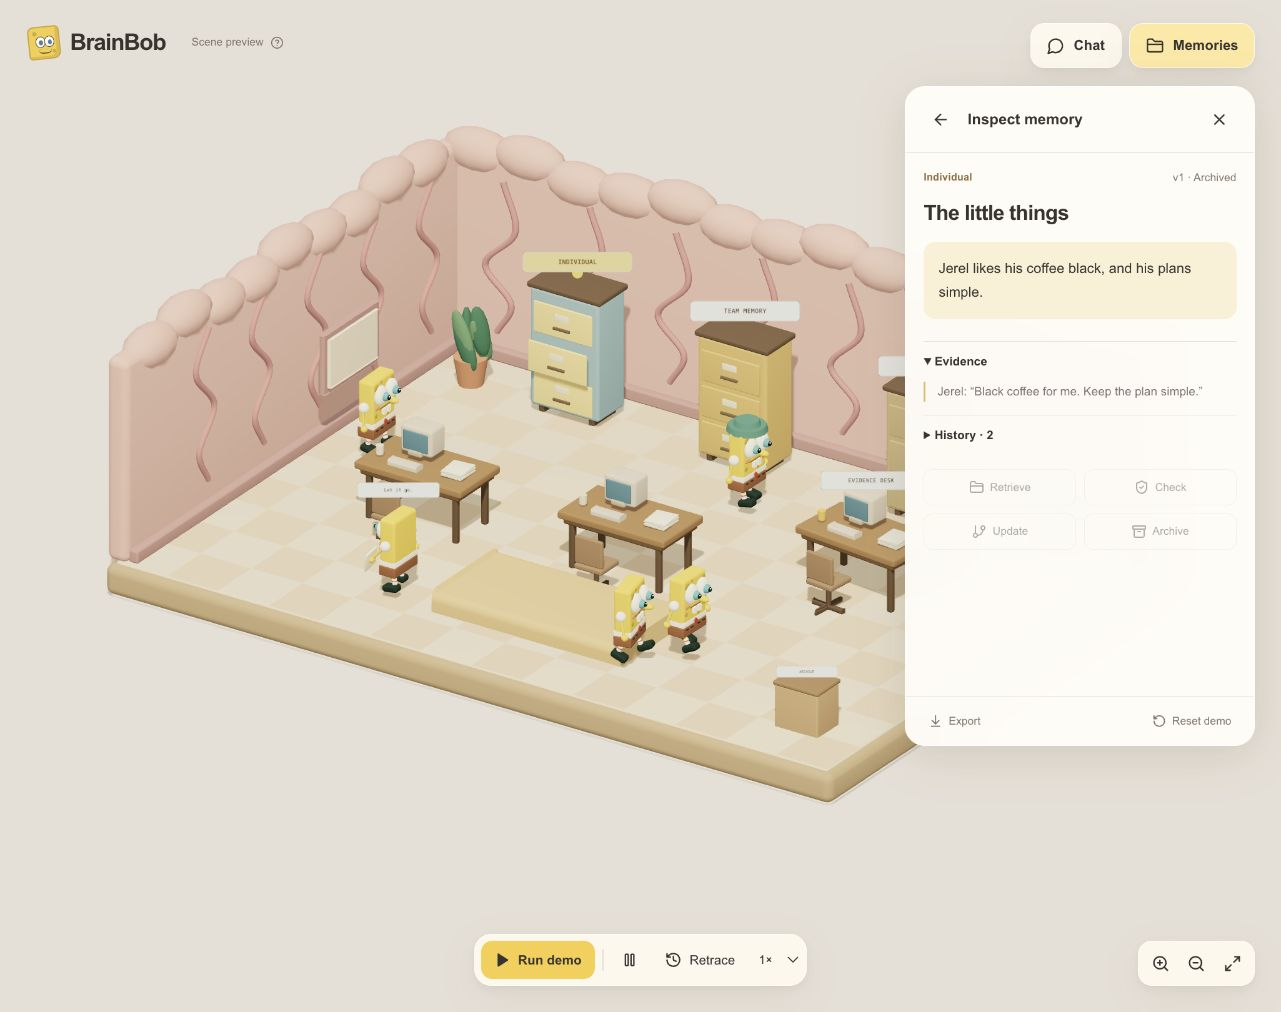
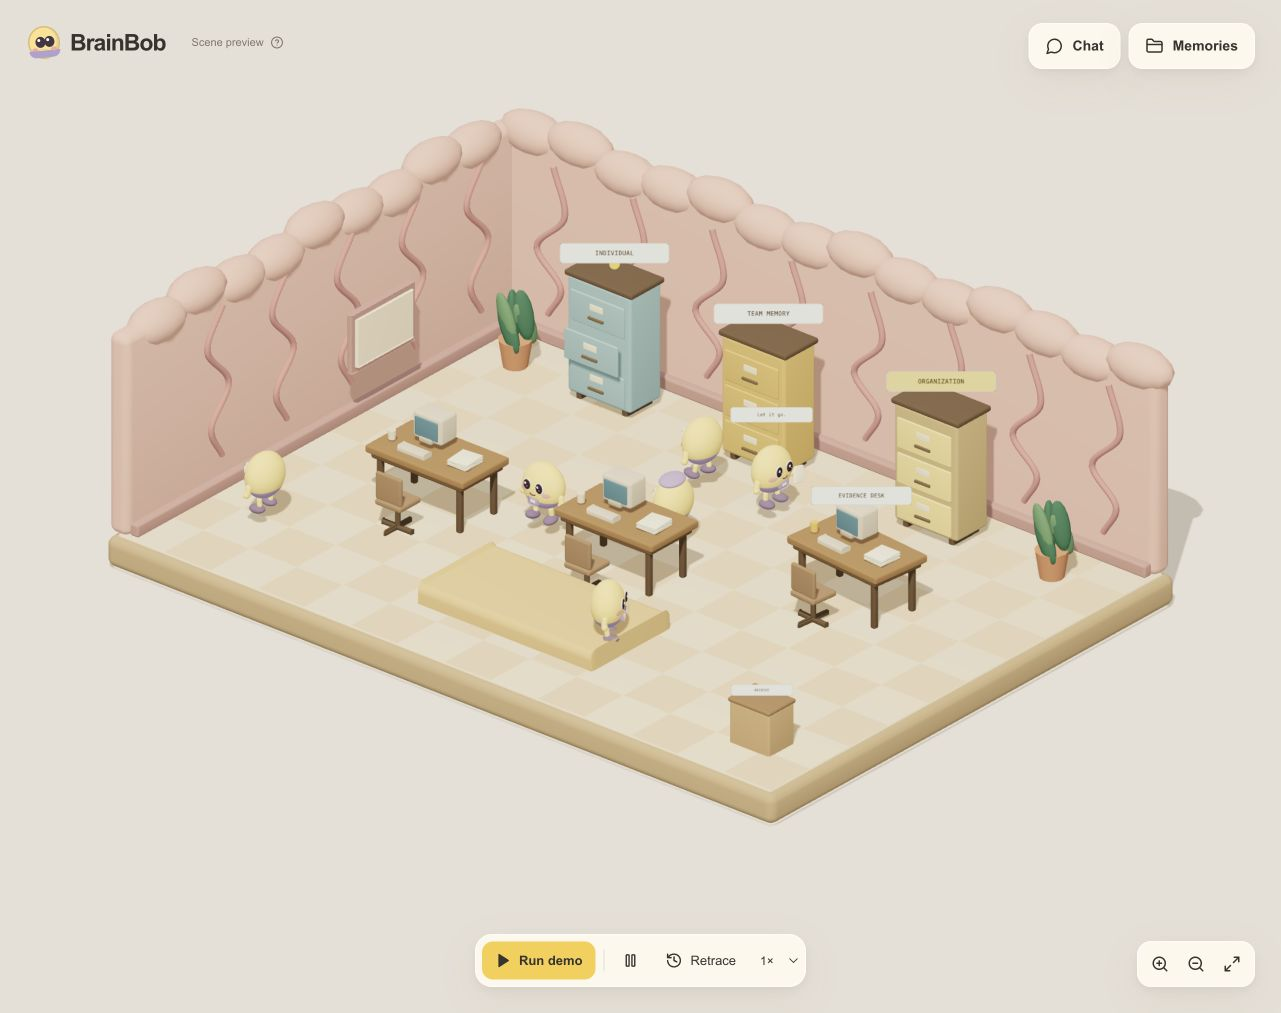
feat: give BrainBobs a soft round character design

diff --git a/apps/web/src/components/brain/brain-bob.tsx b/apps/web/src/components/brain/brain-bob.tsx
@@ -1,0 +1,99 @@
+"use client";
+
+import { useMemo, useRef } from "react";
+import { useFrame } from "@react-three/fiber";
+import { RoundedBox } from "@react-three/drei";
+import * as THREE from "three";
+
+const butter = "#ffe28b";
+const violet = "#b1a0cf";
+
+function Foot({ side, legRef }: { side: number; legRef: React.Ref<THREE.Group> }) {
+  return <group ref={legRef} position={[side * .15, .47, 0]}>
+    <mesh position={[0, -.08, 0]} castShadow><capsuleGeometry args={[.045, .1, 4, 10]} /><meshStandardMaterial color={butter} /></mesh>
+    <mesh position={[side * .012, -.2, .045]} scale={[1, .62, 1.35]} castShadow>
+      <sphereGeometry args={[.11, 16, 12]} /><meshStandardMaterial color="#877799" roughness={1} />
+    </mesh>
+  </group>;
+}
+
+export function BrainBob({ walking = true, carrying = false, inspector = false, phase = 0 }: {
+  walking?: boolean; carrying?: boolean; inspector?: boolean; phase?: number;
+}) {
+  const body = useRef<THREE.Group>(null);
+  const leftLeg = useRef<THREE.Group>(null);
+  const rightLeg = useRef<THREE.Group>(null);
+  const leftArm = useRef<THREE.Group>(null);
+  const rightArm = useRef<THREE.Group>(null);
+  const time = useRef(phase);
+  const smile = useMemo(() => new THREE.QuadraticBezierCurve3(
+    new THREE.Vector3(-.065, .8, .285),
+    new THREE.Vector3(0, .745, .29),
+    new THREE.Vector3(.065, .8, .285),
+  ), []);
+
+  useFrame((_, delta) => {
+    if (walking) time.current += Math.min(delta, .05) * 5;
+    const sway = walking ? Math.sin(time.current) * .2 : 0;
+    if (leftLeg.current) leftLeg.current.rotation.x = sway;
+    if (rightLeg.current) rightLeg.current.rotation.x = -sway;
+    if (leftArm.current) leftArm.current.rotation.x = -sway * .5;
+    if (rightArm.current) rightArm.current.rotation.x = carrying ? -.35 : sway * .5;
+    if (body.current) {
+      body.current.position.y = walking ? Math.abs(Math.sin(time.current)) * .012 : 0;
+      body.current.rotation.z = sway * .07;
+    }
+  });
+
+  return <group ref={body}>
+    {/* A shallow, soft round body keeps the face nestled in the silhouette. */}
+    <mesh position={[0, .85, 0]} scale={[1, 1, .72]} castShadow>
+      <sphereGeometry args={[.4, 32, 24]} /><meshStandardMaterial color={butter} roughness={1} />
+    </mesh>
+    {[-1, 1].map((side) => <group key={side}>
+      <mesh position={[side * .13, .93, .264]} scale={[.9, 1.05, .2]}>
+        <sphereGeometry args={[.103, 20, 16]} /><meshStandardMaterial color="#fff6da" roughness={1} />
+      </mesh>
+      <mesh position={[side * .13, .93, .282]} scale={[.82, 1.06, .22]}>
+        <sphereGeometry args={[.083, 20, 16]} /><meshStandardMaterial color="#443746" roughness={.5} />
+      </mesh>
+      <mesh position={[side * .13 - .019, .958, .302]} scale={[1, 1, .35]}>
+        <sphereGeometry args={[.024, 12, 10]} /><meshBasicMaterial color="#fffdf4" />
+      </mesh>
+      <mesh position={[side * .13 + .018, .911, .302]} scale={[1, 1, .35]}>
+        <sphereGeometry args={[.011, 10, 8]} /><meshBasicMaterial color="#fff0d7" />
+      </mesh>
+      <mesh position={[side * .237, .817, .229]} rotation={[0, side * .45, 0]} scale={[1, .58, .12]}>
+        <sphereGeometry args={[.077, 16, 12]} /><meshStandardMaterial color="#f1aaa5" roughness={1} />
+      </mesh>
+      <group ref={side < 0 ? leftArm : rightArm} position={[side * .365, .77, 0]}>
+        <mesh position={[side * .035, -.07, .025]} rotation={[0, 0, side * .25]} castShadow>
+          <capsuleGeometry args={[.052, .1, 4, 12]} /><meshStandardMaterial color={butter} roughness={1} />
+        </mesh>
+        <mesh position={[side * .055, -.15, .035]} scale={[1, .9, .8]} castShadow>
+          <sphereGeometry args={[.068, 14, 12]} /><meshStandardMaterial color={butter} roughness={1} />
+        </mesh>
+      </group>
+    </group>)}
+    <mesh><tubeGeometry args={[smile, 16, .009, 6, false]} /><meshStandardMaterial color="#805557" /></mesh>
+
+    {/* Soft overalls wrap the lower body without a tight white waistband. */}
+    <mesh position={[0, .85, 0]} scale={[1, 1, .72]} castShadow>
+      <sphereGeometry args={[.405, 32, 16, 0, Math.PI * 2, 2.08, Math.PI - 2.08]} />
+      <meshStandardMaterial color={violet} roughness={1} />
+    </mesh>
+    <RoundedBox args={[.21, .15, .025]} radius={.04} position={[0, .65, .259]}>
+      <meshStandardMaterial color={violet} roughness={1} />
+    </RoundedBox>
+    {[-1, 1].map((side) => <mesh key={side} position={[side * .025, .654, .279]} scale={[1, 1.05, .3]}>
+      <sphereGeometry args={[.031, 12, 10]} /><meshStandardMaterial color="#fff3ca" />
+    </mesh>)}
+    <Foot side={-1} legRef={leftLeg} /><Foot side={1} legRef={rightLeg} />
+    {carrying ? <RoundedBox args={[.24, .29, .04]} radius={.025} position={[.43, .65, .22]} rotation={[-.2, 0, -.2]}>
+      <meshStandardMaterial color="#fff5da" />
+    </RoundedBox> : null}
+    {inspector ? <mesh position={[.035, 1.245, 0]} rotation={[0, 0, -.13]} scale={[1, .3, .85]} castShadow>
+      <sphereGeometry args={[.245, 24, 16]} /><meshStandardMaterial color={violet} roughness={1} />
+    </mesh> : null}
+  </group>;
+}

diff --git a/apps/web/src/components/brain/brain-scene.tsx b/apps/web/src/components/brain/brain-scene.tsx
@@ -4,7 +4,7 @@ import { Component, memo, useEffect, useMemo, useRef, useState } from "react";
 import { Canvas, useFrame, useThree } from "@react-three/fiber";
 import { Billboard, OrbitControls, RoundedBox } from "@react-three/drei";
 import * as THREE from "three";
-import { SpongeBob } from "./sponge-bob";
+import { BrainBob } from "./brain-bob";
 import type { MemoryEvent, MemoryScope } from "@/lib/memory";
 
 export type SceneHandle = { reset: () => void; zoom: (factor: number) => void };
@@ -164,9 +164,9 @@ function Walker({ index, playing, speed, reducedMotion, event, onClick }: {
     const angle = Math.atan2(end[0] - start[0], end[1] - start[1]);
     group.current.rotation.y = THREE.MathUtils.damp(group.current.rotation.y, angle, 9, Math.min(delta, .05));
   });
-  const active = event && ((event.actor === "Inspector Bob" && index === 4) || (event.actor === "Curator Bob" && index === 0) || (event.actor === "Runner Bob" && index === 1));
+  const active = event && ((["Inspector BrainBob", "Inspector Bob"].includes(event.actor) && index === 4) || (["Curator BrainBob", "Curator Bob"].includes(event.actor) && index === 0) || (["Runner BrainBob", "Runner Bob"].includes(event.actor) && index === 1));
   return <group ref={group} position={[route[0][0], .05, route[0][1]]} onClick={(e) => { e.stopPropagation(); onClick(); }}>
-    <SpongeBob walking={playing && !reducedMotion} carrying={index === 0 || index === 1} inspector={index === 4} phase={index} />
+    <BrainBob walking={playing && !reducedMotion} carrying={index === 0 || index === 1} inspector={index === 4} phase={index} />
     {active ? <Label position={[0, 1.85, 0]} width={1.35} text={event.action === "evaluated" ? "Checks out!" : event.action === "updated" ? "New info!" : event.action === "forgotten" ? "Let it go." : "On it!"} /> : null}
   </group>;
 }
@@ -206,7 +206,7 @@ export default function BrainScene(props: SceneProps) {
     gl?.getExtension("WEBGL_lose_context")?.loseContext();
   }, []);
   if (!supported) return <div className="scene-fallback"><h2>Your memories are in good hands.</h2><p>Enable WebGL to visit the 3D brain. Open Memories to explore memory and history.</p></div>;
-  return <SceneBoundary><Canvas orthographic shadows dpr={[1, 1.7]} camera={{ position: [16, 14, 19], zoom: 45, near: .1, far: 100 }} gl={{ antialias: true, powerPreference: "high-performance" }} aria-label="Interactive isometric brain office with six walking SpongeBob memory workers">
+  return <SceneBoundary><Canvas orthographic shadows dpr={[1, 1.7]} camera={{ position: [16, 14, 19], zoom: 45, near: .1, far: 100 }} gl={{ antialias: true, powerPreference: "high-performance" }} aria-label="Interactive isometric brain office with six walking BrainBob memory workers">
     <color attach="background" args={["#f0e9dd"]} />
     <ambientLight intensity={1.55} color="#fff5e2" />
     <directionalLight position={[5, 12, 8]} intensity={2.8} color="#fff1d5" castShadow shadow-mapSize={[2048, 2048]} shadow-camera-left={-12} shadow-camera-right={12} shadow-camera-top={12} shadow-camera-bottom={-12} shadow-normalBias={.04} />
@@ -217,7 +217,7 @@ export default function BrainScene(props: SceneProps) {
     <Desk position={[-3.6, 0, .9]} />
     <Desk position={[.2, 0, .6]} />
     <Desk position={[3.8, 0, -1]} rotation={-.1} audit />
-    {routes.map((_, index) => <Walker key={index} index={index} playing={props.playing} speed={props.speed} reducedMotion={props.reducedMotion} event={props.event} onClick={() => props.onWorker(index === 4 ? "Inspector Bob checks memories against their evidence." : index === 0 ? "Curator Bob files new memories and revisions." : "Runner Bob delivers memories to the team.")} />)}
+    {routes.map((_, index) => <Walker key={index} index={index} playing={props.playing} speed={props.speed} reducedMotion={props.reducedMotion} event={props.event} onClick={() => props.onWorker(index === 4 ? "Inspector BrainBob checks memories against their evidence." : index === 0 ? "Curator BrainBob files new memories and revisions." : "Runner BrainBob delivers memories to the team.")} />)}
     <CameraRig onReady={props.onReady} />
   </Canvas></SceneBoundary>;
 }

diff --git a/apps/web/src/lib/memory.ts b/apps/web/src/lib/memory.ts
@@ -33,7 +33,7 @@ const initialMemories: Memory[] = [
 export function initialTrace(): MemoryEvent[] {
   return initialMemories.map((memory, index) => ({
     id: `seed-${memory.id}`, sequence: index + 1, action: "created", memoryId: memory.id,
-    title: memory.title, scope: memory.scope, actor: "Curator Bob",
+    title: memory.title, scope: memory.scope, actor: "Curator BrainBob",
     explanation: "Filed a new memory from the supplied demo conversation.",
     evidence: memory.evidence, timestamp: "2026-10-17T17:45:00.000Z", after: memory,
   }));
@@ -59,7 +59,7 @@ export function makeEvent(action: MemoryAction, events: readonly MemoryEvent[], 
   const base = {
     id, sequence, action, timestamp: new Date().toISOString(), memoryId,
     title: active?.title ?? "A new idea", scope: active?.scope ?? "team" as MemoryScope,
-    evidence: active?.evidence ?? "", actor: "Curator Bob", explanation: "",
+    evidence: active?.evidence ?? "", actor: "Curator BrainBob", explanation: "",
   };
   if (action === "created") {
     const memory: Memory = {
@@ -71,8 +71,8 @@ export function makeEvent(action: MemoryAction, events: readonly MemoryEvent[], 
       explanation: "A useful idea became a shared team memory." };
   }
   if (!active) throw new Error("Select an active memory first. Forgotten memories remain available in history.");
-  if (action === "retrieved") return { ...base, actor: "Runner Bob", explanation: "Delivered the exact stored revision to the task desk." };
-  if (action === "evaluated") return { ...base, actor: "Inspector Bob", verdict: "supported",
+  if (action === "retrieved") return { ...base, actor: "Runner BrainBob", explanation: "Delivered the exact stored revision to the task desk." };
+  if (action === "evaluated") return { ...base, actor: "Inspector BrainBob", verdict: "supported",
     explanation: "Scripted evidence check: the stored claim matches its source. No change needed." };
   if (action === "forgotten") return { ...base, after: { ...active, status: "forgotten" },
     explanation: "Archived from active retrieval. Its evidence and history are still retraceable." };
@@ -91,8 +91,8 @@ export const actionLabels: Record<MemoryAction, string> = {
 };
 
 export const demoSteps: { action: MemoryAction; memoryId: string; caption: string }[] = [
-  { action: "retrieved", memoryId: "launch", caption: "Runner Bob finds the launch date." },
-  { action: "evaluated", memoryId: "launch", caption: "Inspector Bob checks the source." },
+  { action: "retrieved", memoryId: "launch", caption: "Runner BrainBob finds the launch date." },
+  { action: "evaluated", memoryId: "launch", caption: "Inspector BrainBob checks the source." },
   { action: "updated", memoryId: "launch", caption: "A correction arrives. October 25 it is!" },
   { action: "retrieved", memoryId: "launch", caption: "The next task gets the corrected memory." },
   { action: "created", memoryId: "launch", caption: "A new team ritual gets its own record." },

diff --git a/apps/web/src/app/globals.css b/apps/web/src/app/globals.css
@@ -17,11 +17,12 @@ a { color: inherit; text-decoration: none; }
 .scene-view { position: absolute; inset: 0; }
 .floating-header { position: absolute; left: 28px; top: 26px; z-index: 2; display: flex; align-items: center; gap: 18px; }
 .brand { display: flex; align-items: center; gap: 10px; font-size: 23px; font-weight: 750; letter-spacing: -1px; }
-.bob-mark { display: block; position: relative; height: 33px; width: 32px; background: #f4cf46; border: 1.6px solid #c9a53c; border-radius: 6px 5px 7px 4px; transform: rotate(-6deg); box-shadow: inset -3px -2px 0 #e5b938; }
-.bob-mark::before, .bob-mark::after { content: ""; width: 4px; height: 4px; background: #c9ad37; border-radius: 50%; position: absolute; }
-.bob-mark::before { top: 4px; left: 4px; }.bob-mark::after { bottom: 4px; right: 3px; }
-.bob-mark i { position: absolute; top: 9px; left: 6px; width: 10px; height: 11px; background: #fffdf3; border: 1px solid #61503d; border-radius: 50%; }
-.bob-mark i:nth-child(2) { left: 15px; }.bob-mark i::after { content: ""; position: absolute; width: 4px; height: 5px; border-radius: 50%; top: 3px; left: 3px; background: #537f9c; }
+.bob-mark { display: block; position: relative; height: 33px; width: 32px; background: #ffe28b; border: 1.6px solid #d8be7a; border-radius: 50%; transform: rotate(-6deg); box-shadow: inset -2px -1px 0 #efd38c; }
+.bob-mark::before, .bob-mark::after { content: ""; width: 6px; height: 4px; background: #f1aaa5; border-radius: 50%; position: absolute; }
+.bob-mark::before { top: 20px; left: 2px; }.bob-mark::after { top: 20px; right: 2px; }
+.bob-mark i { position: absolute; top: 9px; left: 6px; width: 10px; height: 11px; background: #443746; border: 1px solid #443746; border-radius: 50%; }
+.bob-mark i:nth-child(2) { left: 15px; }.bob-mark i::after { content: ""; position: absolute; width: 3px; height: 3px; border-radius: 50%; top: 1px; left: 1px; background: #fffdf4; }
+.bob-mark em { position: absolute; left: -1px; right: -1px; bottom: 0; height: 7px; background: #b1a0cf; border-radius: 0 0 14px 14px; }
 .bob-mark b { position: absolute; left: 9px; top: 22px; width: 13px; height: 4px; border-bottom: 1.5px solid #796326; border-radius: 0 0 10px 10px; }
 .preview-label { display: flex; align-items: center; gap: 7px; color: var(--muted); font-size: 11px; border-radius: 20px; padding: 8px; }
 .panel-launchers { position: absolute; right: 26px; top: 23px; display: flex; gap: 8px; z-index: 4; }

diff --git a/README.md b/README.md
@@ -1,6 +1,8 @@
 # BrainBob
 
-A shared memory layer for an agent team, visualized as a 3D isometric brain office full of working SpongeBobs.
+A shared memory layer for an agent team, visualized as a 3D isometric brain office full of working BrainBobs.
+
+Meet the **BrainBobs**: our SpongeBob-inspired memory crew, with round yellow bodies, expressive eyes, lavender overalls, and memory badges.
 
 **Shared Brain** is our primary problem: every agent should read the team's project memory before working and update it afterward. BrainBob aims to keep that knowledge current, lean, and conflict-free. Self-improvement comes from better memory.
 
@@ -12,7 +14,7 @@ The current build is an interactive frontend preview. The 3D room fills the scre
 
 | Capability | Current implementation |
 | --- | --- |
-| 3D brain office | Six animated SpongeBob workers, desks, filing cabinets, orbit and zoom controls. |
+| 3D brain office | Six animated BrainBob workers, desks, filing cabinets, orbit and zoom controls. |
 | Floating panels | CopilotKit chat and memory inspection open over the room. Chat survives closing and reopening its panel. |
 | Memory operations | Scripted create, retrieve, check, update, and archive actions with evidence and revision history. |
 | Retracing | Project earlier memory states from recorded events; return to the current state without replaying actions. |
@@ -57,7 +59,7 @@ The source for this first frontend is in [apps/web](apps/web).
 | Model routing | [NVIDIA NeMo Switchyard](https://github.com/NVIDIA-NeMo/Switchyard) | Route requests between specialized models from our configured pool. |
 | Inference | [Crusoe Managed Inference](https://github.com/crusoecloud/crusoe-developer-hub) | Serve all project model calls, including NVIDIA Nemotron models. |
 | Agent UI | CopilotKit + AG-UI | Chat, alignment decisions, tool results, and event streaming through a project-specific harness bridge. |
-| 3D visualization | Next.js, React Three Fiber, Three.js, Drei | Isometric brain office, walking SpongeBobs, cabinets, and memory retracing. |
+| 3D visualization | Next.js, React Three Fiber, Three.js, Drei | Isometric brain office, walking BrainBobs, cabinets, and memory retracing. |
 | Shared memory | SQLite + versioned Markdown records | Scoped retrieval, evidence, revision history, and transactional updates. |
 | Optional planning research | You.com | Retrieve public web sources for planning artifacts. |
 
@@ -79,7 +81,7 @@ Our goal is a coordinated team that shares context, organizes memories, and cont
 
 ![A team of SpongeBobs working at desks inside a brain with organized filing cabinets](docs/assets/brain-memory-team.png)
 
-These user-supplied images inspired the brain office and its SpongeBob workers.
+BrainBobs are inspired by SpongeBob and the brain-office scenes above. Our characters have round yellow bodies and expressive eyes, with lavender overalls, memory badges, and rosy cheeks and tiny smiles. The supplied images are inspiration references, not screenshots of BrainBob.
 
 ## Planned: Planning and Human Alignment
 
@@ -143,13 +145,13 @@ The initial proposal samples **10 of the latest 50 eligible conversations** afte
 The scene uses **Three.js**, rendered through **React Three Fiber** in a **Next.js / React** app. **Drei** provides orbit controls, rounded geometry, and billboard labels.
 
 - **Isometric view:** An orthographic camera with a responsive fit, orbit, zoom, and reset.
-- **Procedural characters:** SpongeBobs are assembled from 3D meshes in code, with articulated arms and legs.
+- **Procedural characters:** BrainBobs are assembled from 3D meshes in code, with articulated arms and legs, soft rounded bodies, lavender overalls, and memory badges.
 - **Animation:** React Three Fiber's frame loop moves workers along waypoint routes and animates their limbs. Pause and reduced-motion preferences are respected.
 - **Current event feedback:** Scripted memory events change cabinet indicators and worker callouts. Walking routes are ambient animation; they do not represent completed backend tasks.
 - **Inspection:** Click a cabinet to open a floating memory inspector. Evidence and history stay available while the room remains visible.
 - **Retracing:** The timeline reconstructs recorded memory state; it does not rewind the characters' physical positions or rerun inference.
 
-Scene implementation: [brain-scene.tsx](apps/web/src/components/brain/brain-scene.tsx), [sponge-bob.tsx](apps/web/src/components/brain/sponge-bob.tsx), and [brain-workspace.tsx](apps/web/src/components/brain-workspace.tsx).
+Scene implementation: [brain-scene.tsx](apps/web/src/components/brain/brain-scene.tsx), [brain-bob.tsx](apps/web/src/components/brain/brain-bob.tsx), and [brain-workspace.tsx](apps/web/src/components/brain-workspace.tsx).
 
 The planned live integration will connect committed memory operations to these visual actions:
 

diff --git a/docs/architecture.md b/docs/architecture.md
@@ -6,7 +6,7 @@ Implementation plan for the Recursive Agents Hackathon, October 17, 2026. The fi
 
 ## Product Decision
 
-Build a working agent memory loop on Crusoe Managed Inference, with CopilotKit chat and a 3D SpongeBob brain office that shows the loop running. Every visible memory action must come from a recorded backend event.
+Build a working agent memory loop on Crusoe Managed Inference, with CopilotKit chat and a 3D BrainBob brain office that shows the loop running. Every visible memory action must come from a recorded backend event.
 
 The distinctive interaction is **retrace this memory**: click a filing cabinet or memory card and walk backward through its creation, evidence, revisions, evaluations, and use in an answer. Replay should work after a page reload and without making another model call.
 
@@ -54,7 +54,7 @@ flowchart TD
     Tools -->|Committed events| Stream[AG-UI custom events]
     Stream --> Projection[Frontend event reducer]
     DB -->|Authorized snapshot and event history| Projection
-    Projection --> Brain[3D SpongeBob brain]
+    Projection --> Brain[3D BrainBob brain]
     Projection --> Inspect
     Agent --> Plan[HTML alignment artifact]
     Plan --> Approval[Human decision]
@@ -417,7 +417,7 @@ For the small demo corpus, replay from an initial snapshot is sufficient; period
 
 ## 3D Brain Office
 
-Use an isometric room with a curved pink brain interior, desks, filing cabinets, paper records, and simple yellow SpongeBob workers built from reusable geometry. Start with procedural meshes so the first animation does not depend on rigging or external model downloads.
+Use an isometric room with a curved pink brain interior, desks, filing cabinets, paper records, and yellow BrainBob workers inspired by SpongeBob, built from reusable geometry with soft rounded bodies, lavender overalls, and memory badges. Start with procedural meshes so the first animation does not depend on rigging or external model downloads.
 
 React Three Fiber provides a React renderer for Three.js, and its frame loop supports procedural animation. Use the compatible stable renderer path selected during installation. [React Three Fiber introduction](https://r3f.docs.pmnd.rs/getting-started/introduction), [animation guide](https://r3f.docs.pmnd.rs/tutorials/basic-animations)
 

diff --git a/judging/README.md b/judging/README.md
@@ -1,6 +1,6 @@
 # BrainBob — Judging Guide
 
-**Track: Shared Brain.** BrainBob is a shared memory layer for an agent team, visualized as a 3D isometric brain office with SpongeBob workers.
+**Track: Shared Brain.** BrainBob is a shared memory layer for an agent team, visualized as a 3D isometric brain office with BrainBob workers.
 
 Every agent should read the team's living project memory before working and update it afterward. The goal is current, lean, conflict-free knowledge with measurable gains in output quality. Self-improvement through better memory is the supporting outcome.
 
